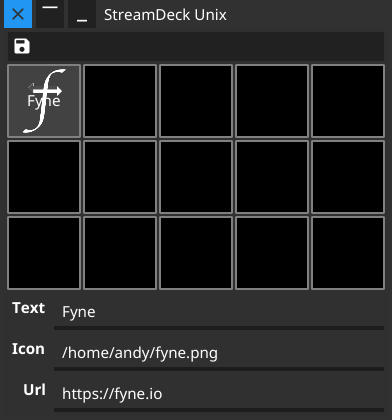
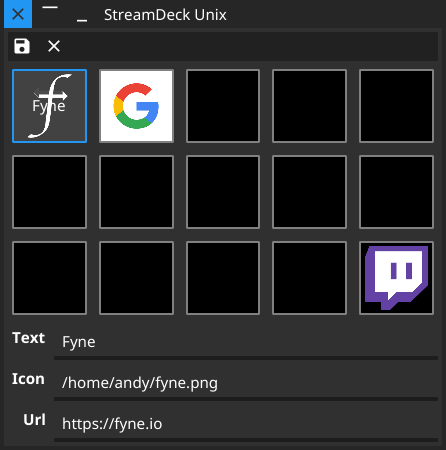
Update image and add instructions on starting

diff --git a/README.md b/README.md
@@ -4,6 +4,25 @@ This repository contains a graphical configuration tool for the StreamDeck
 devices that works on Unix, Linux and other OS.
 It is a work heavily in progress and we welcome any contributions.
 
+# Usage
+
+To use the streamdeck on unix you will need to have a daemon running.
+This GUI is built to work with unix-streamdeck/streamdeckd, the install steps
+are the following to build from code. You will only need a Go compiler.
+
+```bash
+$ go get github.com/unix-streamdeck/streamdeckd
+$ `go env path`/bin/streamdeckd
+```
+
+Once that is running (you should probably plug in your streamdeck device first)
+you can install this package
+
+```bash
+$ go get github.com/unix-streamdeck/streamdeckui
+$ `go env path`/bin/streamdeckui
+```
+
 # Screenshot
 
 ![](img/current.png)
